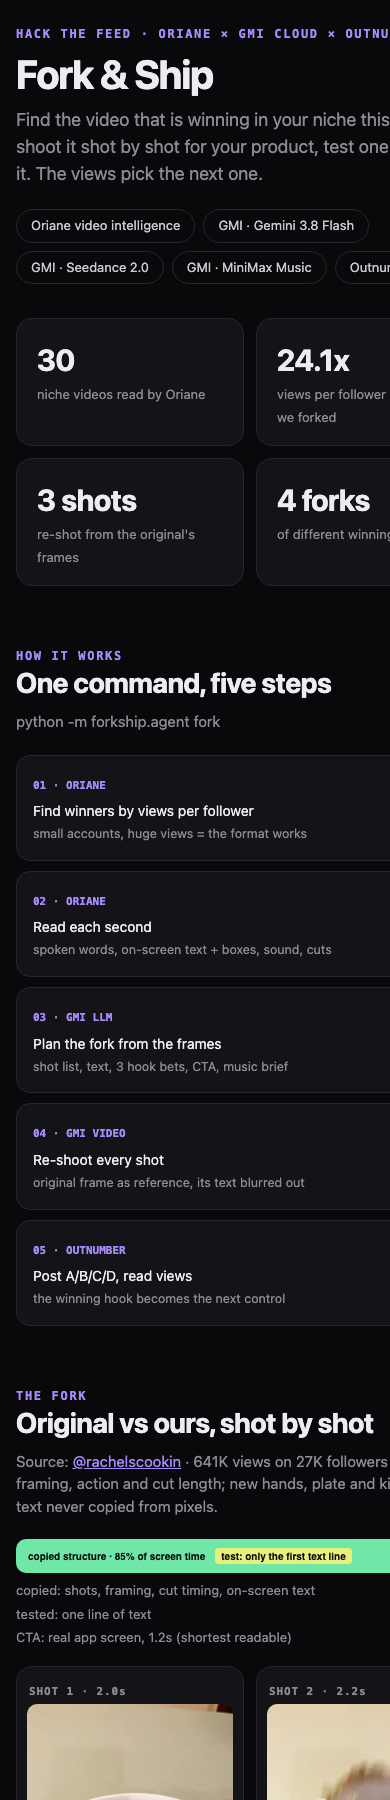
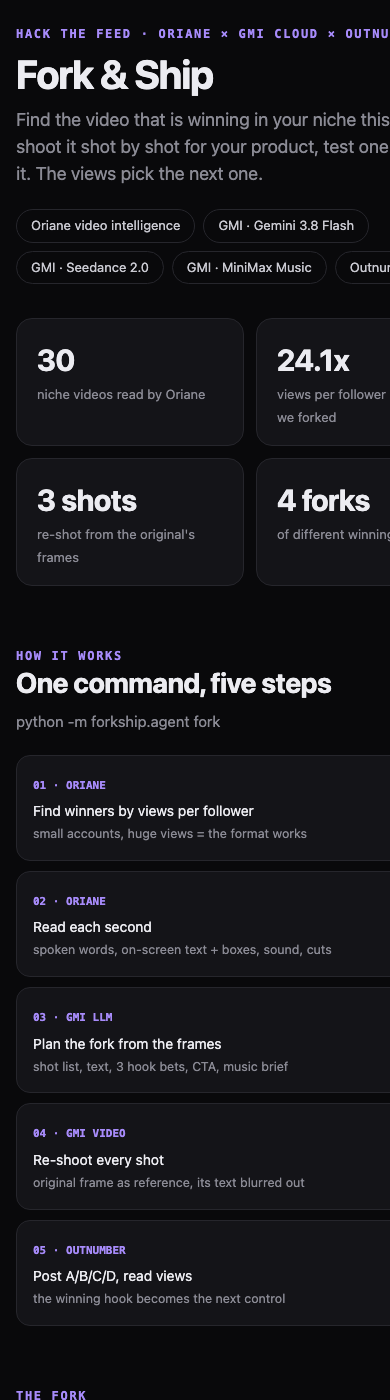
Dashboard: mobile fixes

diff --git a/data/index.html b/data/index.html
@@ -41,7 +41,7 @@ section{margin-top:64px}.sub{color:var(--mut);margin:0 0 22px}
 .k{font:700 10px ui-monospace,Menlo,monospace;border-radius:4px;padding:1px 5px;margin-right:6px;color:#0a0a0c}
 .say{background:var(--say)}.show{background:var(--show)}.snd{background:var(--snd)}
 a.src{color:var(--acc)}
-@media (max-width:820px){.wrap{padding:28px 16px 60px}h1{font-size:40px}.stats{grid-template-columns:1fr 1fr}
+@media (max-width:820px){html,body{overflow-x:hidden}.wrap{padding:28px 16px 60px;max-width:100vw}.split{height:auto}.split div{white-space:normal;line-height:1.3;padding:8px 10px}.stats>*,.pairs>*,.grid>*,.vars>*,.steps>*{min-width:0}.chips{overflow:hidden}h1{font-size:40px}.stats{grid-template-columns:1fr 1fr}
 .steps{grid-template-columns:1fr}.grid{grid-template-columns:1fr 1fr}.vars,.vars.g2{grid-template-columns:1fr}
 .pairs{grid-auto-flow:row;grid-template-columns:1fr 1fr}.split{font-size:10px}.legend{flex-direction:column;gap:4px}}footer{margin-top:72px;color:var(--mut);font-size:13px;border-top:1px solid var(--line);padding-top:20px}
 </style></head><body><div class="wrap">

diff --git a/forkship/report.py b/forkship/report.py
@@ -79,7 +79,7 @@ section{margin-top:64px}.sub{color:var(--mut);margin:0 0 22px}
 .k{font:700 10px ui-monospace,Menlo,monospace;border-radius:4px;padding:1px 5px;margin-right:6px;color:#0a0a0c}
 .say{background:var(--say)}.show{background:var(--show)}.snd{background:var(--snd)}
 a.src{color:var(--acc)}
-@media (max-width:820px){.wrap{padding:28px 16px 60px}h1{font-size:40px}.stats{grid-template-columns:1fr 1fr}
+@media (max-width:820px){html,body{overflow-x:hidden}.wrap{padding:28px 16px 60px;max-width:100vw}.split{height:auto}.split div{white-space:normal;line-height:1.3;padding:8px 10px}.stats>*,.pairs>*,.grid>*,.vars>*,.steps>*{min-width:0}.chips{overflow:hidden}h1{font-size:40px}.stats{grid-template-columns:1fr 1fr}
 .steps{grid-template-columns:1fr}.grid{grid-template-columns:1fr 1fr}.vars,.vars.g2{grid-template-columns:1fr}
 .pairs{grid-auto-flow:row;grid-template-columns:1fr 1fr}.split{font-size:10px}.legend{flex-direction:column;gap:4px}}footer{margin-top:72px;color:var(--mut);font-size:13px;border-top:1px solid var(--line);padding-top:20px}
 """
